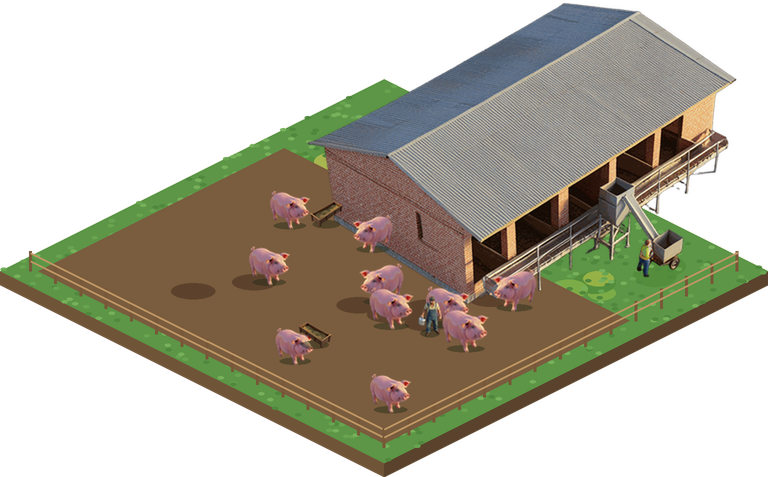
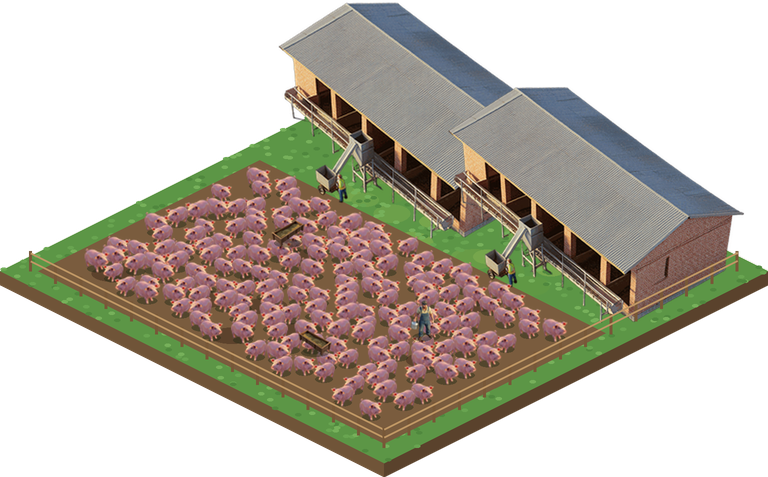
Fermes d'élevage : bâtiments longs cadrés sur le bord nord→est (affine 2:1, deux bâtiments bout à bout), cheptels réalistes, contrôle d'emprise

diff --git a/tools/factory_ai/parcelle.py b/tools/factory_ai/parcelle.py
@@ -27,6 +27,44 @@ def main():
     bat = Image.open(os.path.join(D, 'bat_' + nom + '.png')).convert('RGBA')
     bb = bat.getchannel('A').point(lambda v: 255 if v > 40 else 0).getbbox()
     bat = bat.crop(bb)
+    if os.environ.get('BAT_FLIP') == '1':
+        bat = bat.transpose(Image.FLIP_LEFT_RIGHT)
+    # redressement affine : les verticales restent verticales, les deux axes du sol passent à ±0,5 (losange 2:1)
+    _a = np.asarray(bat.getchannel('A')) > 40
+    _cols = np.nonzero(_a.any(axis=0))[0]
+    _yb = np.array([np.nonzero(_a[:, c])[0].max() for c in _cols], float)
+    if os.environ.get('BAT_COIN') == '1':
+        _i = int(np.argmax(_yb)); _lowx = _cols[_i]
+        _lo = [c for c in _cols if _yb[c - _cols[0]] >= _yb.max() - 3]
+        _lowx = int(np.median(_lo))
+        def _fit(c0, c1):
+            m_ = (_cols >= c0) & (_cols <= c1)
+            return float(np.polyfit(_cols[m_].astype(float), _yb[m_], 1)[0]) if m_.sum() > 6 else None
+        _L = _lowx - _cols[0]; _R = _cols[-1] - _lowx
+        _su = _fit(_cols[0] + 0.12 * _L, _lowx - 0.12 * _L)            # arête longue (descend vers la droite)
+        _sr = _fit(_lowx + 0.12 * _R, _cols[-1] - 0.12 * _R)           # arête courte (remonte vers la droite)
+        _su = abs(_su) if _su is not None else 0.5
+        _sv = abs(_sr) if _sr is not None else 0.5
+        _al_ = max(0.6, min(1.6, _su + _sv)); _be = 0.5 * _al_ - _su
+        _w0, _h0 = bat.size; _oy = max(0.0, -_be * _w0)
+        _nw = int(np.ceil(_al_ * _w0)); _nh = int(np.ceil(_h0 + abs(_be) * _w0)) + 2
+        bat = bat.transform((_nw, _nh), Image.AFFINE, (1 / _al_, 0, 0, -_be / _al_, 1, -_oy), Image.BICUBIC)
+        _bb = bat.getchannel('A').point(lambda v: 255 if v > 40 else 0).getbbox(); bat = bat.crop(_bb)
+        print('affine : pente longue %.2f courte %.2f -> alpha %.2f beta %.2f' % (_su, _sv, _al_, _be))
+    else:
+        _n = len(_cols); _l = slice(int(_n * 0.08), int(_n * 0.40)); _r = slice(int(_n * 0.60), int(_n * 0.92))
+        def _pente(sl):
+            xx, yy = _cols[sl].astype(float), _yb[sl]
+            return abs(np.polyfit(xx, yy, 1)[0]) if len(xx) > 4 else 0.5
+        _m = max(0.2, (_pente(_l) + _pente(_r)) / 2)
+        _f = min(1.0, max(0.6, 0.5 / _m)) if os.environ.get('BAT_RAIDIR', '1') == '1' else 1.0
+        if _f < 0.995:
+            bat = bat.resize((bat.width, max(1, round(bat.height * _f))), Image.LANCZOS)
+        print('pente base', round(_m, 2), 'redressement y x', round(_f, 2))
+    _a2 = np.asarray(bat.getchannel('A')) > 40
+    _yb2 = np.array([np.nonzero(_a2[:, c])[0].max() if _a2[:, c].any() else -1 for c in range(_a2.shape[1])])
+    _lx = float(np.median(np.nonzero(_yb2 >= _yb2.max() - 2)[0]))
+    COIN = os.environ.get('BAT_COIN') == '1'
 
     Wd, Hd = cases * CASE_W, cases * CASE_W // 2          # losange exact 2:1
     T = 14                                                # épaisseur de la dalle
@@ -35,6 +73,13 @@ def main():
     fw = ((u1 - u0) + (v1 - v0)) * Wd / 2
     kf = float(sys.argv[9]) if len(sys.argv) > 9 else 0.86
     k = fw * kf / bat.width
+    if COIN:
+        NB = int(os.environ.get('BAT_N', '1'))
+        k = (u1 - u0) * (Wd / 2) * kf / max(1.0, _lx) / NB            # NB bâtiments bout à bout couvrent tout le bord nord→est
+        if os.environ.get('BAT_AUTOV') == '1':                          # la profondeur de la bande = celle du bâtiment
+            v1 = v0 + ((bat.width - _lx) * k) / (Wd / 2) + 0.012
+            print('bande v1 auto', round(v1, 3))
+    _Cx, _Dx = Wd / 2 + (u1 - v1) * Wd / 2, Wd / 2 + (u0 - v1) * Wd / 2
     bat = bat.resize((max(1, round(bat.width * k)), max(1, round(bat.height * k))), Image.LANCZOS)
     haut = bat.height + 20                                # marge au-dessus du losange pour le bâtiment
     W = Wd
@@ -71,10 +116,10 @@ def main():
         poly(d, [L, B, dn(B), dn(L)], (112, 84, 56, 255)); poly(d, [B, R, dn(R), dn(B)], (90, 66, 44, 255))
         poly(d, [P(0, 0), P(1, 0), P(1, 1), P(0, 1)], (92, 150, 70, 255))
         rr = random.Random(graine + 3)
-        for _ in range(70):                                    # grandes plaques jaune-vert / vert profond
+        for _ in range(90):                                    # grandes plaques jaune-vert / vert profond
             uu, vv = rr.uniform(0.10, 0.90), rr.uniform(0.10, 0.90)
             x, y = P(uu, vv)
-            g = rr.choice([(124, 172, 72), (150, 178, 70), (84, 142, 60), (108, 164, 66), (168, 182, 80)])
+            g = rr.choice([(108, 160, 74), (96, 152, 68), (118, 166, 76), (104, 156, 70)])
             r_ = rr.uniform(12, 22) * SS
             d.ellipse([x - r_, y - r_ / 2, x + r_, y + r_ / 2], fill=g + (255,))
         for _ in range(900):                                   # texture d'herbe
@@ -211,8 +256,23 @@ def main():
     fx = cx + ((u0 + u1) / 2 - (v0 + v1) / 2) * Wd / 2
     fy = yt + (u1 + v1) * Hd / 2 - 4
     bx, by = round(fx - bat.width / 2), round(fy - bat.height)
+    if COIN: bx = round(_Cx - _lx * k)
     img_b = Image.new('RGBA', img.size, (0, 0, 0, 0))
-    img_b.alpha_composite(bat.resize((bat.width * SS, bat.height * SS), Image.LANCZOS), (bx * SS, by * SS))
+    _batS = bat.resize((bat.width * SS, bat.height * SS), Image.LANCZOS)
+    for _j in range((NB if COIN else 1) - 1, -1, -1):                  # le plus au fond d'abord
+        _dx = round(_j * _lx * k * SS); img_b.alpha_composite(_batS, (bx * SS - _dx, by * SS - _dx // 2)) if COIN else img_b.alpha_composite(_batS, (bx * SS, by * SS))
+    # --- contrôle d'emprise : le bâtiment doit rester dans sa bande (u0..u1 x v0..v1) extrudée vers le haut
+    _A, _B, _C, _D = [tuple(c / SS for c in P(u_, v_)) for (u_, v_) in [(u0, v0), (u1, v0), (u1, v1), (u0, v1)]]
+    _al = np.asarray(img_b.getchannel('A').resize((W, H), Image.BILINEAR)) > 40
+    _ys, _xs = np.nonzero(_al)
+    def _interp(xv, p, q):
+        return p[1] + (q[1] - p[1]) * (xv - p[0]) / (q[0] - p[0] + 1e-9)
+    _low = np.where(_xs <= _C[0], _interp(_xs, _D, _C), _interp(_xs, _C, _B))
+    _up = np.where(_xs <= _A[0], _interp(_xs, _D, _A), _interp(_xs, _A, _B))
+    _hb = max(0.0, bat.height - 0.5 * bat.width)                       # hauteur réelle du bâtiment au-dessus de son empreinte
+    _bad = (_xs < _D[0] - 1) | (_xs > _B[0] + 1) | (_ys > _low + 2) | (_ys < _up - _hb - 2)
+    print('EMPRISE depassement %.2f%%' % (100.0 * _bad.sum() / max(1, len(_xs))))
+    print('detail gauche %d droite %d bas %d haut %d  hb %.0f' % (((_xs < _D[0] - 1)).sum(), ((_xs > _B[0] + 1)).sum(), ((_ys > _low + 2)).sum(), ((_ys < _up - _hb - 2)).sum(), _hb), 'D', _D, 'C', _C, 'B', _B, 'A', _A, 'bat', bat.size, 'bx', bx, 'lx', round(_lx * k))
 
     # voitures (cubes iso), triées par profondeur
     pal = [(236, 236, 236), (30, 32, 38), (140, 144, 152), (190, 40, 40), (40, 80, 170), (220, 190, 50),
@@ -273,16 +333,16 @@ def main():
             ap = os.path.join(ICI, '..', '..', 'assets', 'phase2_hd', an[0] + '.png')
             if os.path.exists(ap):
                 sp = Image.open(ap).convert('RGBA'); sp = sp.crop(sp.getchannel('A').getbbox())
-                hh = 40 if kind != 'poulets' else 24
+                hh = {'bovins': 34, 'moutons': 22, 'porcs': 22, 'poulets': 15}[kind]
                 sp = sp.resize((max(1, round(sp.width * hh / sp.height)), hh), Image.LANCZOS)
                 pos = []
-                nb_ = {'bovins': 9, 'moutons': 13, 'poulets': 15, 'porcs': 10}[kind]
-                centres = [(rr.uniform(0.2, 0.8), rr.uniform(v1 + 0.15, 0.85)) for _ in range(3)]
+                nb_ = {'bovins': 55, 'moutons': 220, 'poulets': 260, 'porcs': 170}[kind]
+                centres = [(rr.uniform(0.2, 0.8), rr.uniform(v1 + 0.15, 0.85)) for _ in range(6)]
                 for _ in range(nb_):
-                    for _try in range(60):
+                    for _try in range(120):
                         c_ = rr.choice(centres)
-                        uu, vv = rr.gauss(c_[0], 0.14), rr.gauss(c_[1], 0.12)
-                        if 0.10 < uu < 0.90 and v1 + 0.08 < vv < 0.90 and all(abs(uu - a) + abs(vv - b) > 0.10 for a, b, _f in pos):
+                        uu, vv = rr.gauss(c_[0], 0.18), rr.gauss(c_[1], 0.16)
+                        if 0.10 < uu < 0.90 and v1 + 0.08 < vv < 0.90 and all(abs(uu - a) + abs(vv - b) > {'bovins': 0.075, 'moutons': 0.035, 'porcs': 0.045, 'poulets': 0.028}[kind] for a, b, _f in pos):
                             pos.append((uu, vv, rr.random() < 0.5)); break
                 pos.sort(key=lambda p: p[0] + p[1])
                 for (uu, vv, fl) in pos:

diff --git a/tools/factory_ai/emprise_check.py b/tools/factory_ai/emprise_check.py
@@ -1,0 +1,18 @@
+"""Mesure les dépassements d'un sprite de parcelle hors de son losange 2:1.
+Règle iso : en dessous du bord avant (bas-gauche / bas-droit, + épaisseur de dalle) ou au-delà des pointes gauche/droite = dépassement.
+Au-dessus, le bâtiment peut monter librement. Usage : python3 emprise_check.py fichier.png cases"""
+import sys, json, os
+import numpy as np
+from PIL import Image
+def depassement(chemin, cases, T=14):
+    im = Image.open(chemin).convert('RGBA'); a = np.asarray(im.getchannel('A')) > 40
+    A = json.load(open(os.path.join(os.path.dirname(chemin), 'ancres.json')))[os.path.basename(chemin)]
+    Wd = cases * 256; Hd = Wd // 2; cx, cy = A['ancre_x'], A['ancre_y']
+    h, w = a.shape
+    ys, xs = np.nonzero(a)
+    bas = cy + (Hd / 2) * (1 - np.abs(xs - cx) / (Wd / 2)) + T + 3
+    hors = (ys > bas) | (np.abs(xs - cx) > Wd / 2 + 2)
+    return int(hors.sum()), int(a.sum())
+if __name__ == '__main__':
+    n, t = depassement(sys.argv[1], int(sys.argv[2]))
+    print(os.path.basename(sys.argv[1]), 'dépassement', n, 'px sur', t, '=', round(100 * n / t, 2), '%')

diff --git a/tools/factory_ai/ferme_cadre.py b/tools/factory_ai/ferme_cadre.py
@@ -1,0 +1,13 @@
+"""Cadre un bâtiment de ferme : réduit l'échelle (kf) tant que l'emprise dépasse la bande nord→est.
+Usage : python3 ferme_cadre.py <bat> <v1> <mode> <sortie> <kf_max> "<décor>" [flip]"""
+import sys, os, re, subprocess
+bat, v1, mode, sortie, kf, deco = sys.argv[1], sys.argv[2], sys.argv[3], sys.argv[4], float(sys.argv[5]), sys.argv[6]
+env = dict(os.environ, BAT_COIN='1', BAT_FLIP='1' if len(sys.argv) > 7 and sys.argv[7] == 'flip' else '0')
+while kf > 0.3:
+    r = subprocess.run(['python3', 'parcelle.py', bat, '3', '0', v1, '1', mode, sortie, 'factory_hd', '%.3f' % kf, deco], capture_output=True, text=True, env=env)
+    m = re.search(r'depassement ([\d.]+)%', r.stdout)
+    pen = re.search(r'pente base ([\d.]+) redressement y x ([\d.]+)', r.stdout)
+    d = float(m.group(1)) if m else 99
+    print(sortie, 'kf %.3f' % kf, 'depassement %.2f%%' % d, pen.group(0) if pen else '')
+    if d <= 0.8: break
+    kf -= 0.04
